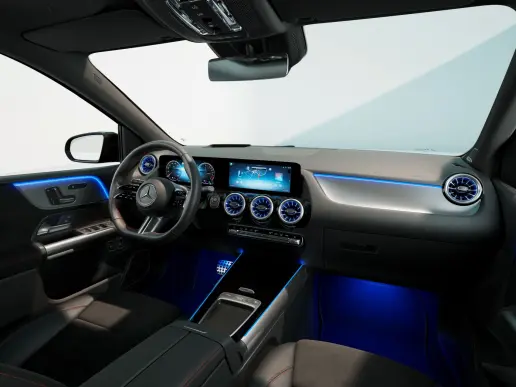
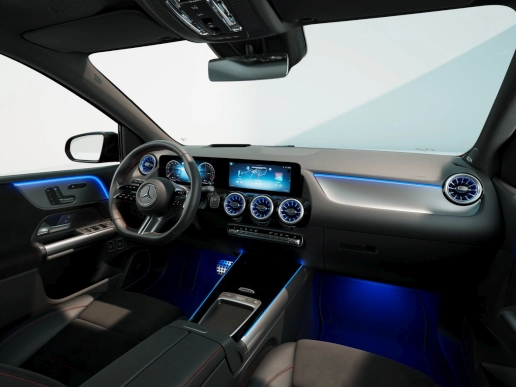
246

Changed region(s): [[0.2171, 0.2171, 0.2481, 0.2481], [0.186, 0.2791, 0.2171, 0.3101], [0.155, 0.3411, 0.186, 0.3721]]

diff --git a/pic/ja_mb_img_b.html b/pic/ja_mb_img_b.html
@@ -424,7 +424,7 @@
 						<a href="full/b/w247_f2.jpg"><img loading="lazy" src="style/b/w247_f2.webp" alt="メルセデス,W247,Bクラス,ダッシュボード" width="603" height="339"></a>
 						<a href="full/b/w247_r2.jpg"><img loading="lazy" src="style/b/w247_r2.webp" alt="メルセデス,W247,Bクラス,リヤ" width="603" height="339"></a><br>
 						<a href="full/b/w247_d2.jpg"><img loading="lazy" src="style/b/w247_d2.webp" alt="メルセデス,W247,Bクラス,ダッシュボード" width="516" height="387"></a>
-						<a href="full/b/w247_i2.jpg"><img loading="lazy" src="style/b/w247_i2.webp" alt="メルセデス,W247,Bクラス,内装" width="603" height="387"></a>
+						<a href="full/b/w247_i2.jpg"><img loading="lazy" src="style/b/w247_i2.webp" alt="メルセデス,W247,Bクラス,内装" width="688" height="387"></a>
 						<h5>AMG-line</h5>
 						<a href="full/b/w247_f2_amgline.jpg"><img loading="lazy" src="style/b/w247_f2_amgline.webp" alt="メルセデス,W247,Bクラス,ダッシュボード" width="603" height="339"></a>
 						<a href="full/b/w247_r2_amgline.jpg"><img loading="lazy" src="style/b/w247_r2_amgline.webp" alt="メルセデス,W247,Bクラス,リヤ" width="603" height="339"></a><br>

diff --git a/pic/mb_img_b.html b/pic/mb_img_b.html
@@ -424,7 +424,7 @@
 						<a href="full/b/w247_f2.jpg"><img loading="lazy" src="style/b/w247_f2.webp" alt="Mercedes,W247,B-klasse,Frontansicht" width="603" height="339"></a>
 						<a href="full/b/w247_r2.jpg"><img loading="lazy" src="style/b/w247_r2.webp" alt="Mercedes,W247,B-klasse,Rückansicht " width="603" height="339"></a><br>
 						<a href="full/b/w247_d2.jpg"><img loading="lazy" src="style/b/w247_d2.webp" alt="Mercedes,W247,B-klasse,Instrumententafel" width="516" height="387"></a>
-						<a href="full/b/w247_i2.jpg"><img loading="lazy" src="style/b/w247_i2.webp" alt="Mercedes,W247,B-klasse,Inere" width="603" height="387"></a>
+						<a href="full/b/w247_i2.jpg"><img loading="lazy" src="style/b/w247_i2.webp" alt="Mercedes,W247,B-klasse,Inere" width="688" height="387"></a>
 						<h5>AMG-line</h5>
 						<a href="full/b/w247_f2_amgline.jpg"><img loading="lazy" src="style/b/w247_f2_amgline.webp" alt="Mercedes,W247,B-klasse,Frontansicht" width="603" height="339"></a>
 						<a href="full/b/w247_r2_amgline.jpg"><img loading="lazy" src="style/b/w247_r2_amgline.webp" alt="Mercedes,W247,B-klasse,Rückansicht " width="603" height="339"></a><br>

diff --git a/pic/en_mb_img_b.html b/pic/en_mb_img_b.html
@@ -424,7 +424,7 @@
 						<a href="full/b/w247_f2.jpg"><img loading="lazy" src="style/b/w247_f2.webp" alt="Mercedes,W247,B-class,Front view" width="603" height="339"></a>
 						<a href="full/b/w247_r2.jpg"><img loading="lazy" src="style/b/w247_r2.webp" alt="Mercedes,W247,B-class,rear " width="603" height="339"></a><br>
 						<a href="full/b/w247_d2.jpg"><img loading="lazy" src="style/b/w247_d2.webp" alt="Mercedes,W247,B-class,Dashboard" width="516" height="387"></a>
-						<a href="full/b/w247_i2.jpg"><img loading="lazy" src="style/b/w247_i2.webp" alt="Mercedes,W247,B-class,Interior" width="603" height="387"></a>
+						<a href="full/b/w247_i2.jpg"><img loading="lazy" src="style/b/w247_i2.webp" alt="Mercedes,W247,B-class,Interior" width="688" height="387"></a>
 						<h5>AMG-line</h5>
 						<a href="full/b/w247_f2_amgline.jpg"><img loading="lazy" src="style/b/w247_f2_amgline.webp" alt="Mercedes,W247,B-class,Front view" width="603" height="339"></a>
 						<a href="full/b/w247_r2_amgline.jpg"><img loading="lazy" src="style/b/w247_r2_amgline.webp" alt="Mercedes,W247,B-class,rear " width="603" height="339"></a><br>
